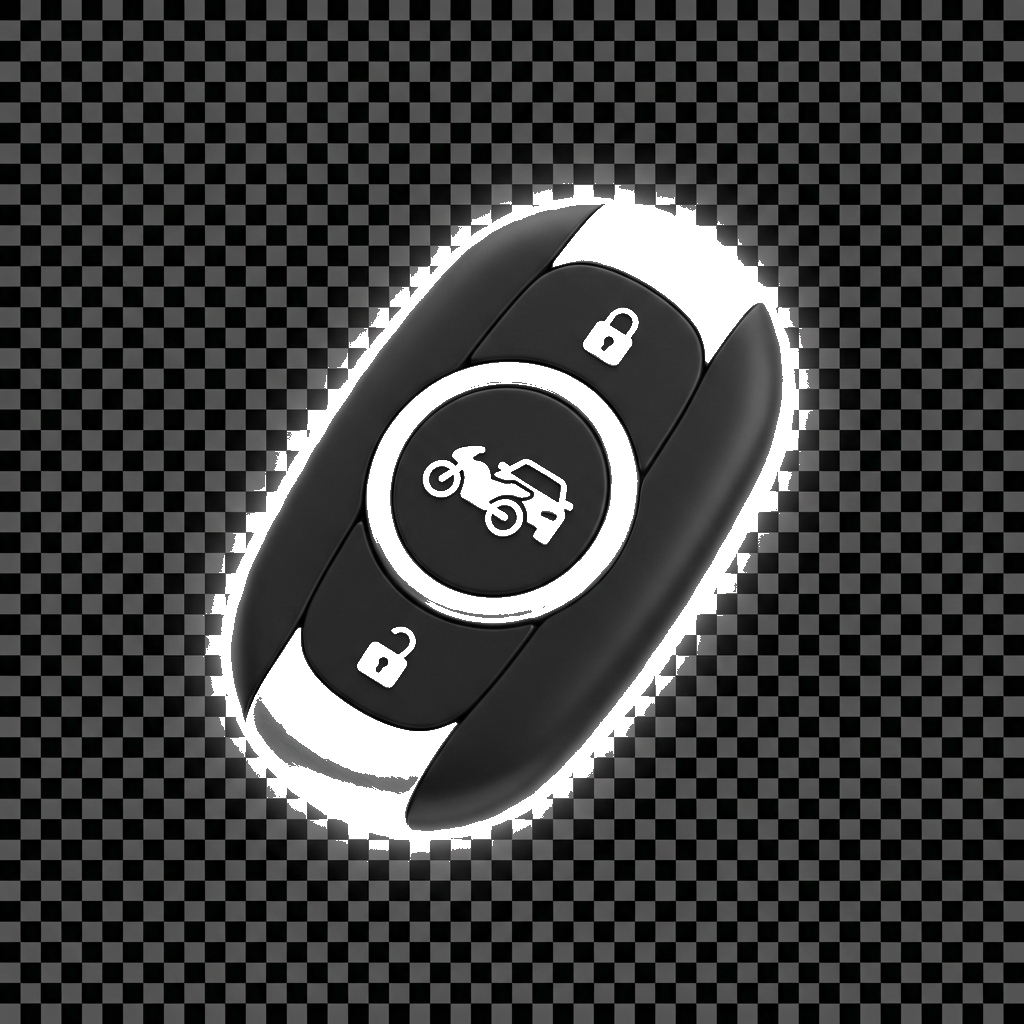
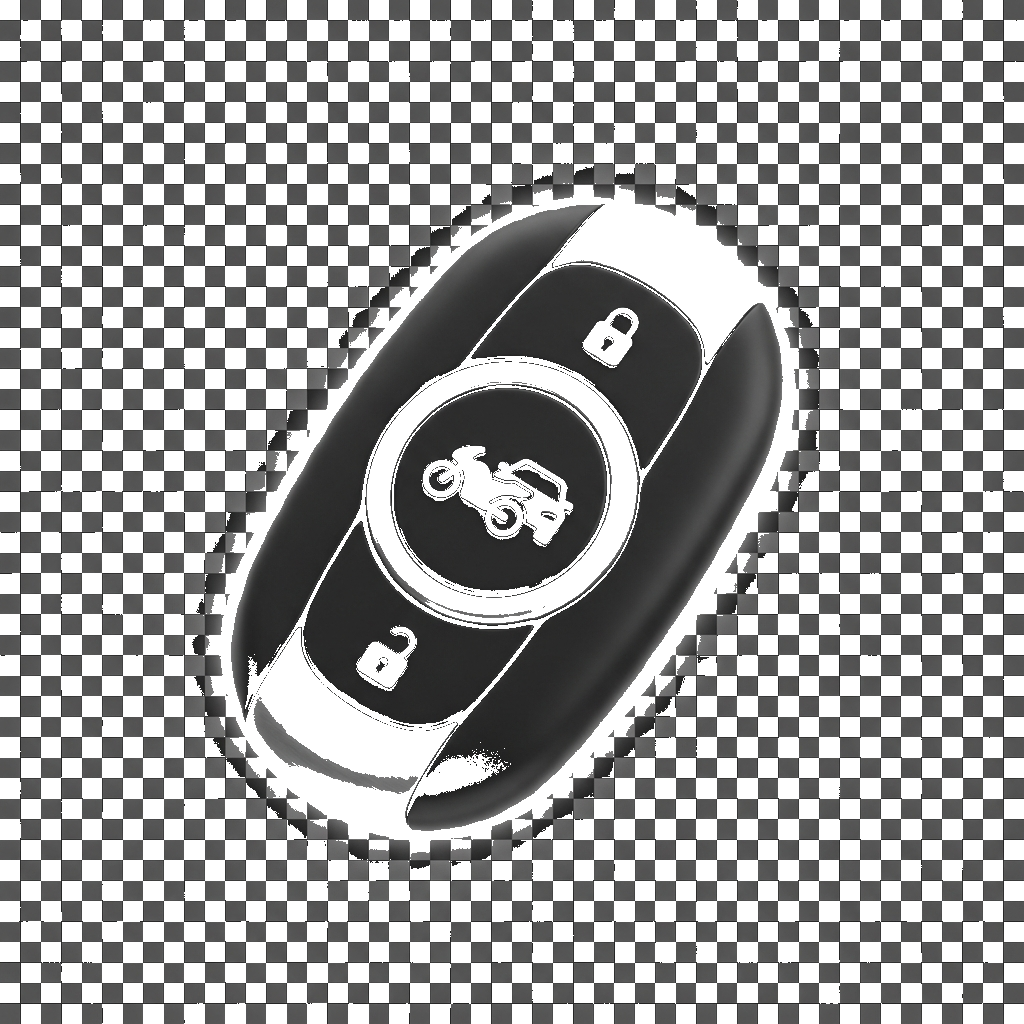
11st

diff --git a/script.js b/script.js
@@ -5,7 +5,7 @@ const prizes = [
     { text: "x2 Thay Pin\nSmart Key", type: "text", color: "#B71C1C", textColor: "#FBC02D", img: "smart_key_fob.png" },
     { text: "Rửa Xe\nMiễn Phí", type: "text", color: "#FFF9C4", textColor: "#B71C1C", img: "vinfast_vf3.png" },
     { text: "Dán Nilong\nXe Free", type: "text", color: "#B71C1C", textColor: "#FBC02D", img: "vinfast_scooter.png" },
-    { text: "Lì Xì\n50k-100k", type: "text", color: "#FFF9C4", textColor: "#D50000", img: "red_envelope.png" }, // Highlighted text
+    { text: "Lì Xì\n100k-1tr", type: "text", color: "#FFF9C4", textColor: "#D50000", img: "red_envelope.png" }, // Highlighted text
     { text: "Nước Làm Mát\nXe Máy", type: "text", color: "#B71C1C", textColor: "#FBC02D", img: "oil_bottle_gold.png" }
 ];
 

diff --git a/fix_transparency.py b/fix_transparency.py
@@ -3,48 +3,92 @@ import os
 
 def remove_checkerboard_or_light_bg(input_path):
     """
-    Attempts to remove checkerboard patterns or light backgrounds.
-    Aggrresive mode: target common checkerboard grays and whites.
+    Uses flood-fill from corners to make background transparent.
+    This works best if the object is in the center and not touching edges.
     """
     try:
         img = Image.open(input_path).convert("RGBA")
-        datas = img.getdata()
+        width, height = img.size
         
+        # Get corner colors to sample background
+        corners = [(0, 0), (width-1, 0), (0, height-1), (width-1, height-1)]
+        
+        # Helper to check if pixel is similar to seed
+        def is_similar(p1, p2, threshold=40):
+            return abs(p1[0] - p2[0]) < threshold and \
+                   abs(p1[1] - p2[1]) < threshold and \
+                   abs(p1[2] - p2[2]) < threshold
+
+        # BFS Flood Fill
+        pixels = img.load()
+        visited = set()
+        
+        # Start from all corners that look "background-ish" 
+        # (Assuming background is not completely black 0,0,0 unless it's just black BG)
+        queue = []
+        for c in corners:
+            queue.append(c)
+            visited.add(c)
+            
+        # We need a reference color from the first corner
+        # Adjust: Treat top-left corner as the definition of "background"
+        seed_color = pixels[0, 0]
+        
+        queue = [(0,0), (width-1, 0), (0, height-1), (width-1, height-1)]
+        
+        processed_img = img.copy()
+        proc_pixels = processed_img.load()
+        
+        # To be safe, let's just make the "filled" pixels transparent
+        # We use a custom flood fill because ImageDraw.floodfill doesn't support tolerance easily with RGBA transparency target
+        
+        # Actually, simpler approach:
+        # If the background is a checkerboard, it has TWO colors. Flood fill might get stuck on one color.
+        # But usually checkerboards are small grids.
+        
+        # Let's try the aggressive threshold again but specifically for DARK grays?
+        # The user image showed a dark checkerboard.
+        
+        # HYBRID APPROACH:
+        # 1. Convert to transparent ANY pixel that looks like the corner pixels (with tolerance)
+        # 2. Iterate through all pixels.
+        
+        datas = img.getdata()
         newData = []
+        
+        # Sample top-left 10x10 area to find "background colors"
+        bg_colors = set()
+        for x in range(min(20, width)):
+            for y in range(min(20, height)):
+                bg_colors.add(pixels[x, y])
+                
+        # Also sample other corners
+        for x in range(max(0, width-20), width):
+            for y in range(max(0, height-20), height):
+                bg_colors.add(pixels[x, y])
+
+        # Define function to check against sampled bg colors
+        def is_bg(pixel):
+            r, g, b, a = pixel
+            # Checkerboards are usually gray. R~G~B
+            if abs(r-g) > 20 or abs(g-b) > 20: return False # Colorful = fail (preserve object)
+            
+            # Check against sampled set with tolerance
+            for bg in bg_colors:
+                br, bg_green, bb, ba = bg
+                if abs(r - br) < 30 and abs(g - bg_green) < 30 and abs(b - bb) < 30:
+                    return True
+            return False
+
         for item in datas:
-            r, g, b, a = item
-            
-            # Brightness
-            brightness = (r + g + b) / 3.0
-            
-            # Saturation (Difference between max and min channel)
-            saturation = max(r, g, b) - min(r, g, b)
-            
-            is_transparent = False
-
-            # 1. White / Light
-            if brightness > 210:
-                is_transparent = True
-            
-            # 2. Common Transparency Grays (often around 204 or #CCCCCC, 192 or #C0C0C0)
-            # We catch anything gray-ish that is lighter than dark gray
-            elif brightness > 150 and saturation < 25:
-                 is_transparent = True
-
-            # 3. Specific check for "checkerboard gray" which is usually strictly neutral
-            elif saturation < 10 and brightness > 120:
-                # To avoid deleting black/dark gray objects, we keep > 120
-                is_transparent = True
-
-            if is_transparent:
+            if is_bg(item):
                 newData.append((255, 255, 255, 0))
             else:
                 newData.append(item)
 
-        img.putdata(newData)
-        # Save back to same path
-        img.save(input_path, "PNG")
-        print(f"Processed: {input_path}")
+        processed_img.putdata(newData)
+        processed_img.save(input_path, "PNG")
+        print(f"Processed (corner sampling): {input_path}")
         
     except Exception as e:
         print(f"Error processing {input_path}: {e}")
